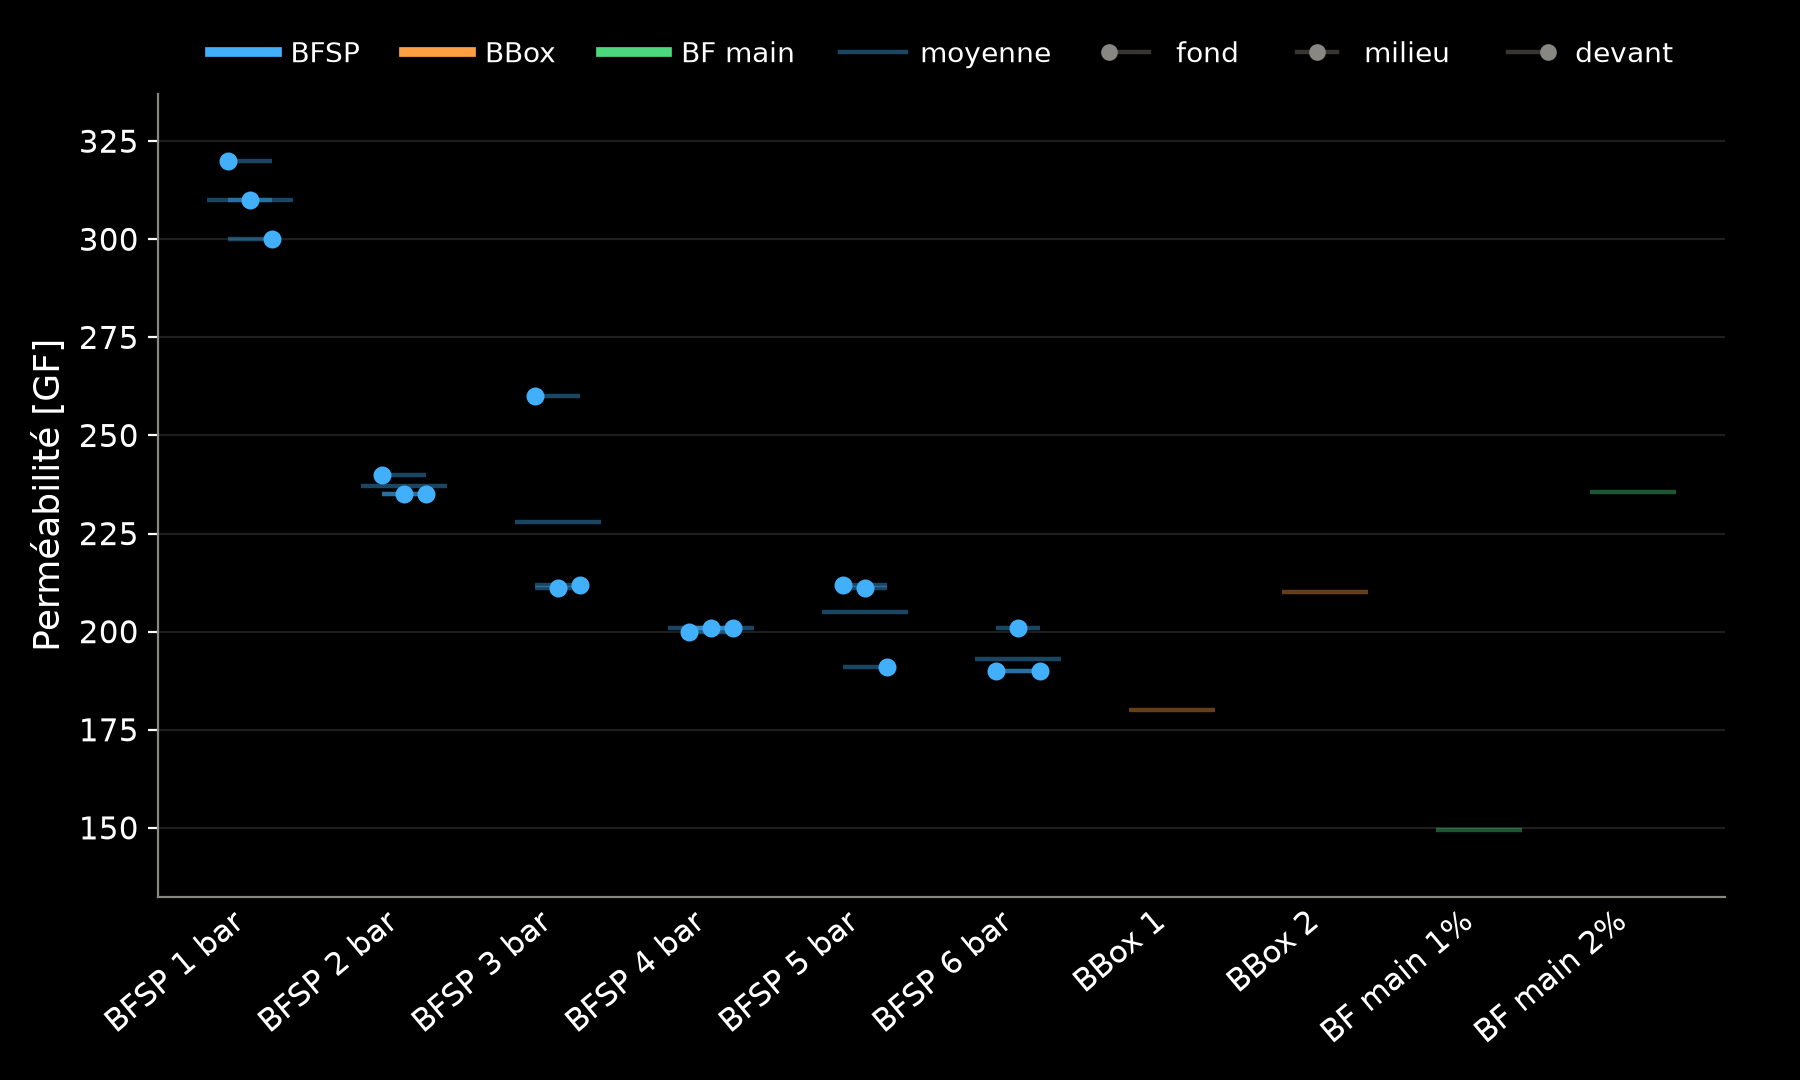
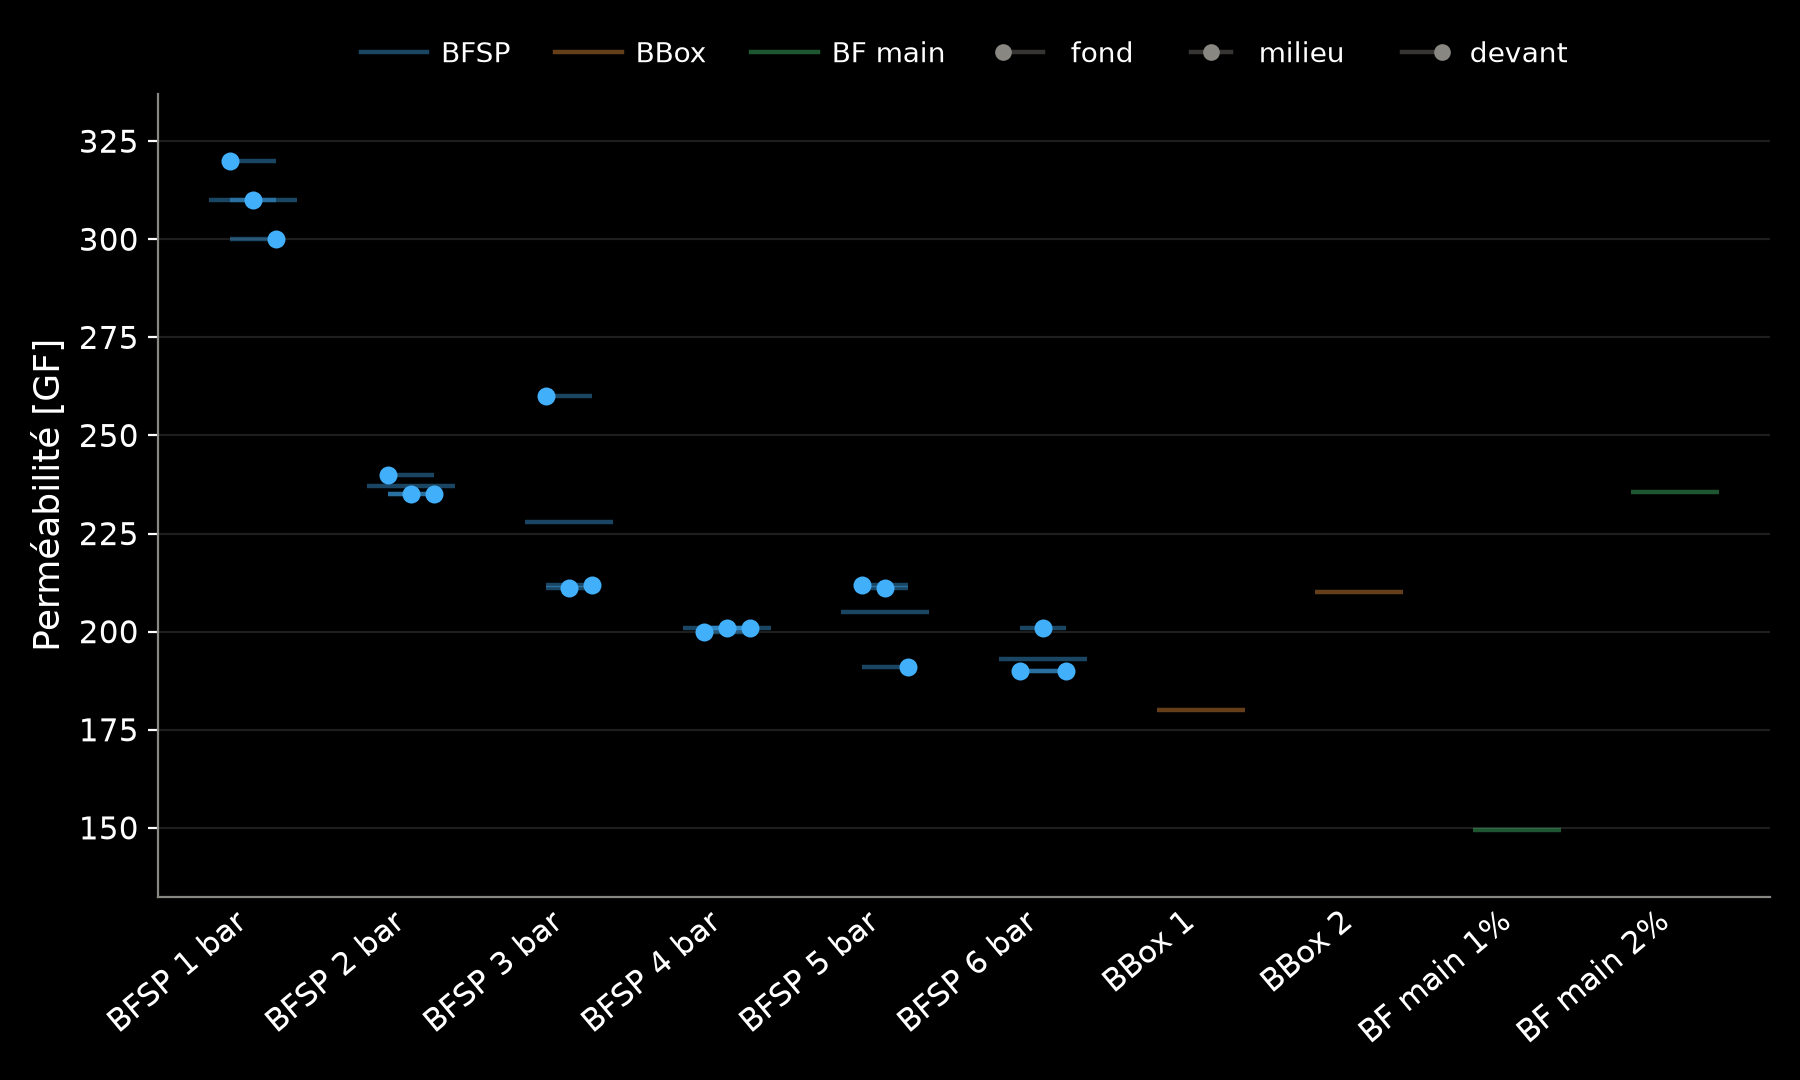
Legend: faint line glyphs, drop moyenne

diff --git a/index.html b/index.html
@@ -96,7 +96,7 @@
     <!-- Idealised force-displacement curves for pressures 1-6 bar (scripts/plot_theory.py) -->
     <section class="centered">
       <figure>
-        <img src="figures/courbes_theoriques_dark.png?v=12" alt="Courbes force-déplacement idéalisées pour des pressions de 1 à 6 bar : chaque courbe monte jusqu'à un maximum puis redescend, le maximum augmente avec la pression en se saturant.">
+        <img src="figures/courbes_theoriques_dark.png?v=13" alt="Courbes force-déplacement idéalisées pour des pressions de 1 à 6 bar : chaque courbe monte jusqu'à un maximum puis redescend, le maximum augmente avec la pression en se saturant.">
       </figure>
       <aside class="notes">
         <p class="fact">Courbes qualitatives, pas des mesures : modèle simplifié (montée, pic F_max, adoucissement jusqu'à un palier). F_max augmente avec la pression et sature ; même forme de courbe pour toutes les pressions.</p>
@@ -172,7 +172,7 @@
     <section>
       <section class="centered">
         <figure>
-          <img src="figures/masse_dark.png?v=12" alt="Nuage de points de la masse en grammes par échantillon : BFSP 1 à 6 bar de 135 à 143 g, BBox 1 et 2 vers 149 g, BF main 1 % et 2 % vers 152 g.">
+          <img src="figures/masse_dark.png?v=13" alt="Nuage de points de la masse en grammes par échantillon : BFSP 1 à 6 bar de 135 à 143 g, BBox 1 et 2 vers 149 g, BF main 1 % et 2 % vers 152 g.">
         </figure>
         <aside class="notes"><p>[...]</p></aside>
       </section>
@@ -249,7 +249,7 @@
     <section>
       <section class="centered">
         <figure>
-          <img src="figures/permeabilite_dark.png?v=12" alt="Nuage de points de la perméabilité par échantillon : BFSP de 310 à 193, BBox 180 et 210, BF main 149,5 et 235,5.">
+          <img src="figures/permeabilite_dark.png?v=13" alt="Nuage de points de la perméabilité par échantillon : BFSP de 310 à 193, BBox 180 et 210, BF main 149,5 et 235,5.">
         </figure>
         <aside class="notes"><p>[...]</p></aside>
       </section>
@@ -327,8 +327,8 @@
       <section class="centered">
         <!-- first image fades out when the BFSP-only plot (own y axis) fades in -->
         <div class="r-stack">
-          <img class="fragment fade-out" data-fragment-index="0" src="figures/cisaillement_dark.png?v=12" alt="Nuage de points de la force maximale en newtons par échantillon : BFSP de 673 à 1161, BBox 411 et 431, BF main 1834 et 5226.">
-          <img class="fragment" data-fragment-index="0" src="figures/cisaillement_bfsp_dark.png?v=12" alt="Même nuage de points, limité à BFSP 1 à 6 bar, avec un axe vertical plus resserré.">
+          <img class="fragment fade-out" data-fragment-index="0" src="figures/cisaillement_dark.png?v=13" alt="Nuage de points de la force maximale en newtons par échantillon : BFSP de 673 à 1161, BBox 411 et 431, BF main 1834 et 5226.">
+          <img class="fragment" data-fragment-index="0" src="figures/cisaillement_bfsp_dark.png?v=13" alt="Même nuage de points, limité à BFSP 1 à 6 bar, avec un axe vertical plus resserré.">
         </div>
         <aside class="notes"><p>[...]</p></aside>
       </section>

diff --git a/scripts/plot_scatter.py b/scripts/plot_scatter.py
@@ -120,13 +120,13 @@ for out_name, table_id, label, keep in PLOTS:
             ax.spines[side].set_color(c["muted"])
         ax.set_xlim(-0.6, len(pts) - 0.4)
         ax.margins(y=0.1)
-        handles = [Line2D([], [], color=col, linewidth=3.5, label=g)
-                   for g, col in COLORS.items() if keep is None or g in keep]
-        # (label, dot position along the line, half width, colour, alpha)
-        sym = [("moyenne", None, 0.5, COLORS["BFSP"]), ("fond", 0.0, 0.3, c["muted"]),
-               ("milieu", 0.5, 0.3, c["muted"]), ("devant", 1.0, 0.3, c["muted"])]
-        hmap = {}
-        for label, dot_pos, half, color in sym:
+        # legend glyphs are drawn exactly like the plot lines (same weight, same alpha)
+        entries = [(g, None, 0.5, col) for g, col in COLORS.items()
+                   if keep is None or g in keep]
+        entries += [("fond", 0.0, 0.3, c["muted"]), ("milieu", 0.5, 0.3, c["muted"]),
+                    ("devant", 1.0, 0.3, c["muted"])]
+        handles, hmap = [], {}
+        for label, dot_pos, half, color in entries:
             h = Line2D([], [], label=label)
             handles.append(h)
             hmap[h] = MeasureHandler(dot_pos, half=half, color=color)
